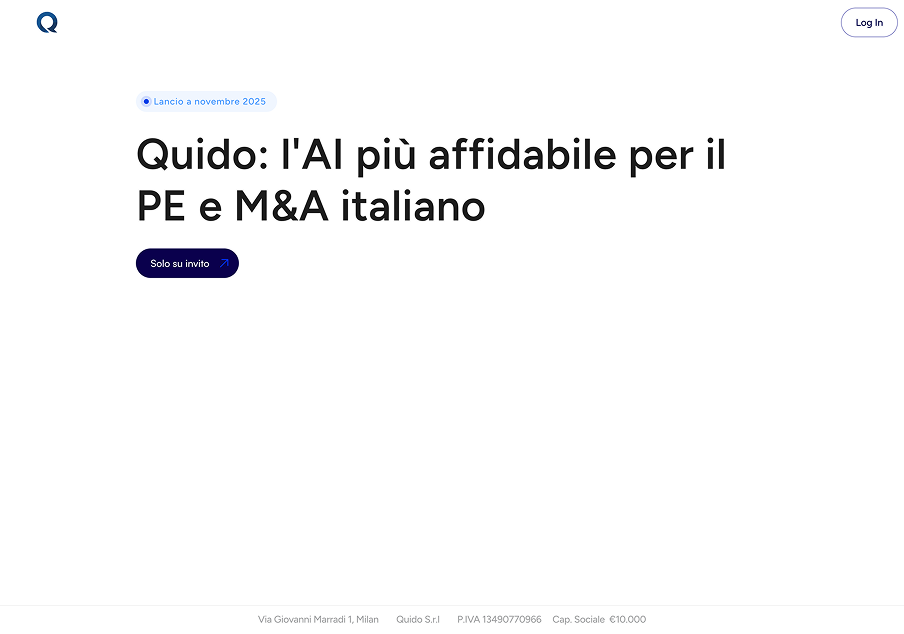
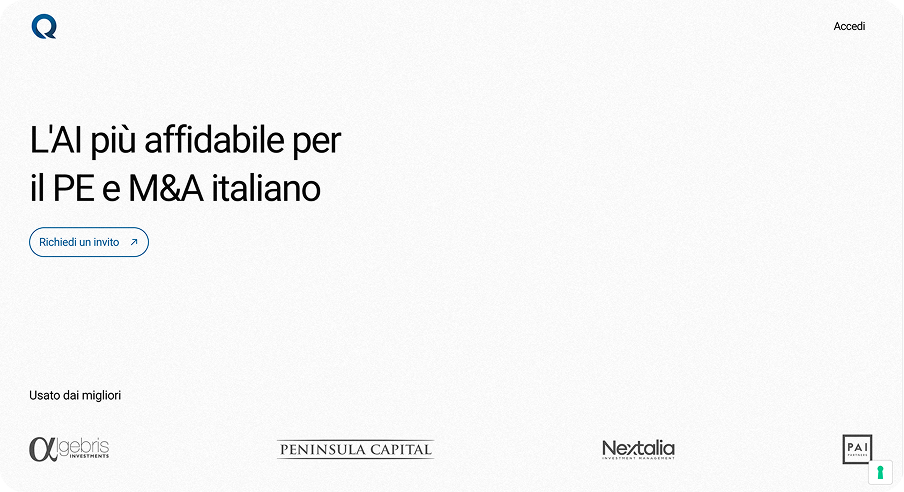
feat: add coolify manager as project and updated fastmemo and quido

diff --git a/src/constants/projects.ts b/src/constants/projects.ts
@@ -3,17 +3,25 @@ export interface Project {
   logo: string | null;
   image: string;
   tags: readonly string[];
-  website?: string | null;
+  websiteUrl?: string | null;
+  githubUrl?: string | null;
   designUrl?: string | null;
 }
 
 export const PROJECTS: Project[] = [
   {
+    id: "coolifyManager",
+    logo: "/images/clients/coolify-manager.svg",
+    image: "/images/projects/coolify-manager.png",
+    tags: ["personal", "design", "javascript", "extension"],
+    githubUrl: "https://github.com/ontech7/coolify-manager-extension",
+  },
+  {
     id: "quido",
     logo: "/images/clients/quido.svg",
     image: "/images/projects/quido.png",
     tags: ["customer", "design", "nextjs", "react"],
-    website: "https://quido.ai",
+    websiteUrl: "https://quido.ai",
   },
   {
     id: "forfettarioControl",
@@ -25,9 +33,9 @@ export const PROJECTS: Project[] = [
   {
     id: "fastmemo",
     logo: "/images/clients/fastmemo.svg",
-    image: "/images/projects/fastmemo.png",
-    tags: ["mobile", "personal", "design", "react-native", "expo-sdk"],
-    website: "https://fastmemo.vercel.app",
+    image: "/images/projects/fastmemo_v2.png",
+    tags: ["mobile", "personal", "design", "react-native", "expo-sdk", "tauri"],
+    websiteUrl: "https://fastmemo.vercel.app",
   },
   {
     id: "anonymous",
@@ -40,34 +48,34 @@ export const PROJECTS: Project[] = [
     logo: "/images/clients/ravenn.svg",
     image: "/images/projects/ravenn.png",
     tags: ["customer", "nextjs", "react", "prisma", "postgresql"],
-    website: "https://ravenn.io",
+    websiteUrl: "https://ravenn.io",
   },
   {
     id: "recrowd",
     logo: "/images/clients/recrowd.svg",
     image: "/images/projects/recrowd.png",
     tags: ["customer", "nextjs", "react", "nodejs", "prisma", "postgresql"],
-    website: "https://recrowd.com",
+    websiteUrl: "https://recrowd.com",
   },
   {
     id: "andreaLosavio",
     logo: "/images/clients/old-andrea-losavio.svg",
     image: "/images/projects/old-andrea-losavio.png",
     tags: ["personal", "nextjs", "react"],
-    website: "https://old.andrealosavio.com",
+    websiteUrl: "https://old.andrealosavio.com",
   },
   {
     id: "brainplatform",
     logo: "/images/clients/brainplatform.svg",
     image: "/images/projects/brainplatform.png",
     tags: ["customer", "react", "nextjs"],
-    website: "https://brainplatform.it",
+    websiteUrl: "https://brainplatform.it",
   },
   {
     id: "studioBargiggia",
     logo: "/images/clients/studio-bargiggia.svg",
     image: "/images/projects/studiobargiggia.png",
     tags: ["customer", "design", "react", "nextjs", "strapi"],
-    website: "https://studiobargiggia.com",
+    websiteUrl: "https://studiobargiggia.com",
   },
 ];

diff --git a/src/app/[locale]/projects/components/project-card.tsx b/src/app/[locale]/projects/components/project-card.tsx
@@ -72,15 +72,24 @@ export function ProjectCard({ project }: ProjectCardProps) {
             />
           </div>
 
-          {(project.website || project.designUrl) && (
+          {(project.websiteUrl || project.designUrl || project.githubUrl) && (
             <Button variant="primary" className="self-end" asChild>
               <Link
-                href={project.website || project.designUrl || "#"}
+                href={
+                  project.websiteUrl ||
+                  project.designUrl ||
+                  project.githubUrl ||
+                  "#"
+                }
                 target="_blank"
                 rel="noopener noreferrer"
               >
                 <LinkIcon className="size-4" />
-                {project.designUrl ? "Check design" : "Check website"}
+                {project.designUrl
+                  ? t("common.checkDesign")
+                  : project.githubUrl
+                    ? t("common.checkGitHub")
+                    : t("common.checkWebsite")}
               </Link>
             </Button>
           )}

diff --git a/src/app/[locale]/projects/sections/projects-section.tsx b/src/app/[locale]/projects/sections/projects-section.tsx
@@ -5,7 +5,12 @@ import { PROJECTS } from "@/constants/projects";
 import { cn } from "@/utils/cn";
 import { motion } from "motion/react";
 import { useTranslations } from "next-intl";
-import { parseAsArrayOf, parseAsString, parseAsStringLiteral, useQueryState } from "nuqs";
+import {
+  parseAsArrayOf,
+  parseAsString,
+  parseAsStringLiteral,
+  useQueryState,
+} from "nuqs";
 import { useMemo } from "react";
 import { ProjectCard } from "../components/project-card";
 import { ProjectsFilter } from "../components/projects-filter";
@@ -18,7 +23,11 @@ interface ProjectsSectionProps {
 // Extract all unique tags from projects
 const ALL_TAGS = [...new Set(PROJECTS.flatMap((p) => p.tags))].sort();
 
-const sortOrderParser = parseAsStringLiteral(["none", "asc", "desc"] as const).withDefault("none");
+const sortOrderParser = parseAsStringLiteral([
+  "none",
+  "asc",
+  "desc",
+] as const).withDefault("none");
 const tagsParser = parseAsArrayOf(parseAsString, ",").withDefault([]);
 
 export function ProjectsSection({ id, className }: ProjectsSectionProps) {
@@ -85,7 +94,7 @@ export function ProjectsSection({ id, className }: ProjectsSectionProps) {
       >
         {filteredAndSortedProjects.length === 0 ? (
           <p className="text-muted-foreground col-span-2 py-12 text-center">
-            {t("noResults")}
+            {t("common.noResults")}
           </p>
         ) : (
           <>